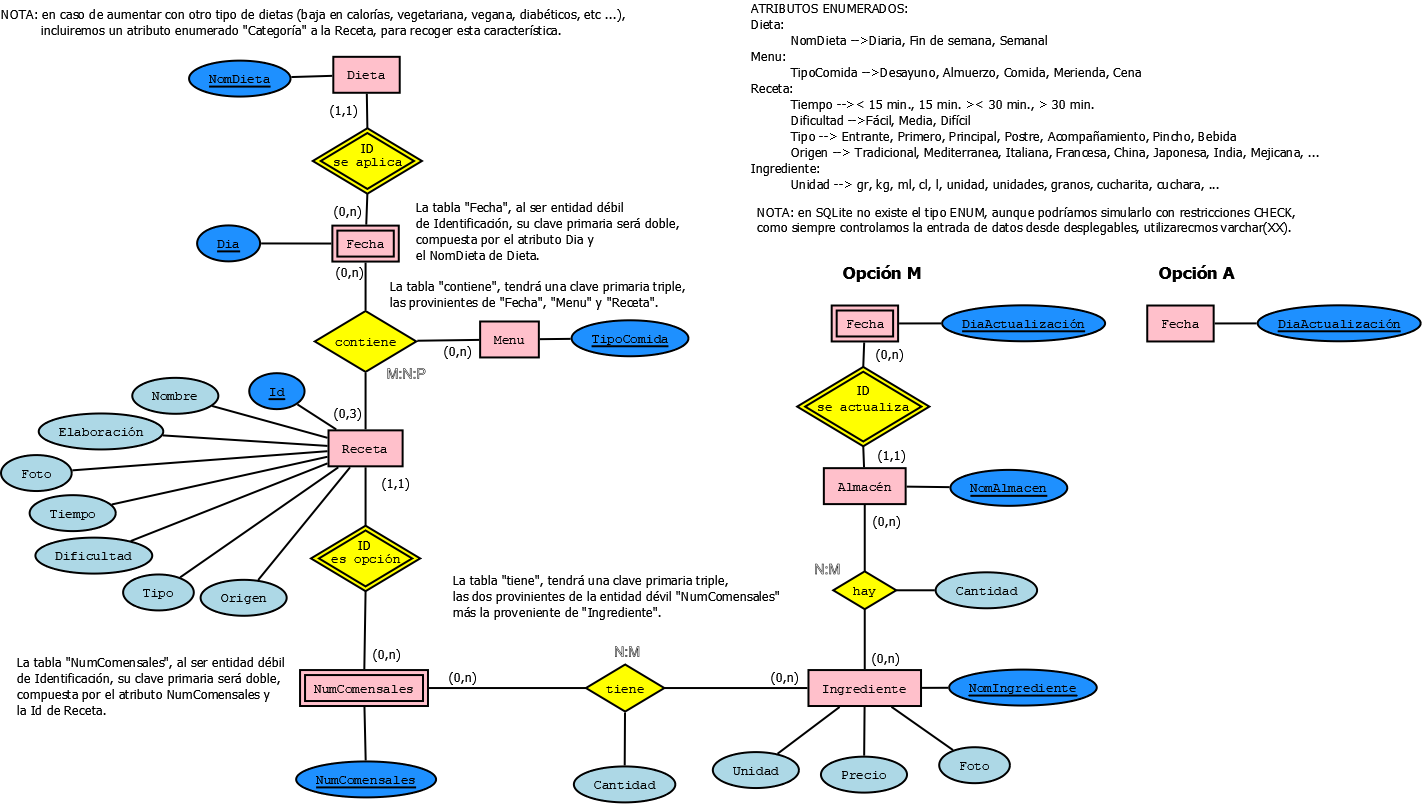
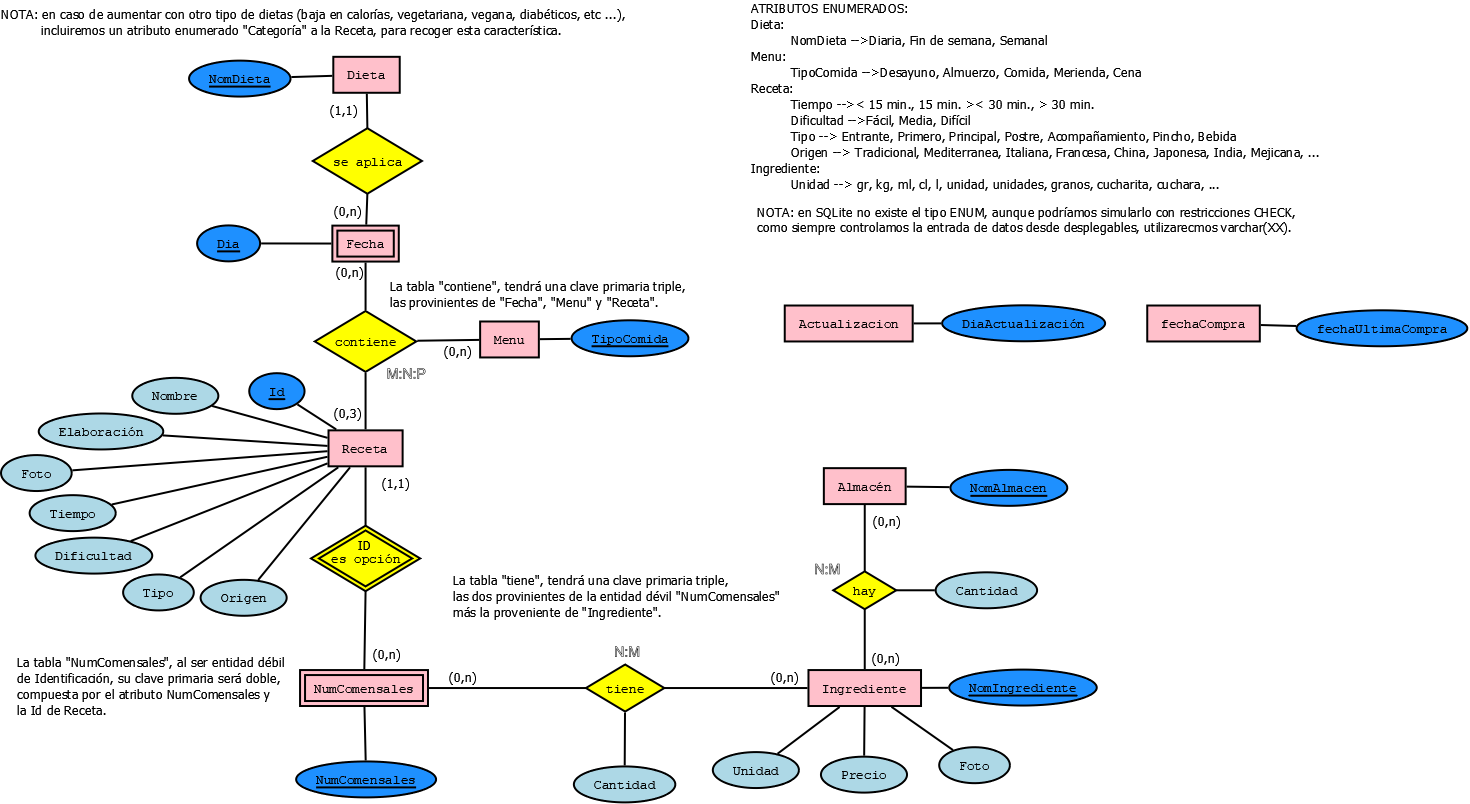
boton ListaCompra deshabilitado y nueva tabla fechaCompra

diff --git a/Aplicacion/app/src/main/java/com/elorrieta/diet_app/listaCompra.java b/Aplicacion/app/src/main/java/com/elorrieta/diet_app/listaCompra.java
@@ -22,6 +22,10 @@ public class listaCompra extends AppCompatActivity {
     ArrayList<Ingrediente> menuArrList_Compra;
     ArrayList<Ingrediente> menuActualizacion_Almacen;
     ArrayList<Ingrediente> menuInsercion_Almacen;
+    ArrayList<String> congelador = new ArrayList<String>();
+    ArrayList<String> despensa = new ArrayList<String>();
+    ArrayList<String> especiero = new ArrayList<String>();
+    ArrayList<String> nevera = new ArrayList<String>();
     String origen, fin, fechaOrigen, fechaFin;
     TextView txtFechaOrigen, txtFechaFin;
 
@@ -29,6 +33,8 @@ public class listaCompra extends AppCompatActivity {
     protected void onCreate(Bundle savedInstanceState) {
         super.onCreate(savedInstanceState);
         setContentView(R.layout.activity_lista_compra);
+
+        cargarListaAlmacenes();
 
         txtFechaOrigen = (TextView) findViewById(R.id.txtOrigen);
         txtFechaFin = (TextView) findViewById(R.id.txtFin);
@@ -38,8 +44,8 @@ public class listaCompra extends AppCompatActivity {
         fin = getIntent().getStringExtra("fechaFin");
 
         //Se llenan los textBoxes con los datos elegidos de la pantalla anterior
-        txtFechaOrigen.setText(origen);
-        txtFechaFin.setText(fin);
+        txtFechaOrigen.setText(fecha_DD_MM_AAAA(origen));
+        txtFechaFin.setText(fecha_DD_MM_AAAA(fin));
 
         //ReciclerViews
 
@@ -95,11 +101,27 @@ public class listaCompra extends AppCompatActivity {
         rvCompramos.setVisibility(View.VISIBLE);
     }
 
+    //Guardará la fecha final de la compra y
+    //acumula los ingredientes comprados en el almacén
+    public void realizarCompra(View poView) {
+        //Fecha
+        BBDD admin = new BBDD(this, "administracion",
+                null, 1);
+        SQLiteDatabase bd = admin.getWritableDatabase();
+        bd.execSQL("UPDATE fechaCompra SET fechaUltimaCompra = '" + fin + "' WHERE true");
+        bd.close();
+        admin.close();
+        
+        //Almacén
+        //-->Update
+        //-->Insert
+    }
+
     //Carga los ingredientes de todas las recetas comprendidas entre dos fechas
     public void cargarNecesitamos() {
 
-        fechaOrigen = fecha_AAAA_MM_DD(origen);
-        fechaFin = fecha_AAAA_MM_DD(fin);
+        fechaOrigen = origen;
+        fechaFin = fin;
 
         boolean bucle = false;
         BBDD admin = new BBDD(this, "administracion",
@@ -197,6 +219,7 @@ public class listaCompra extends AppCompatActivity {
         }
     }
 
+    //Formato "AAAA / MM / DD" para las fechas
     public String fecha_AAAA_MM_DD(String fechaDD_MM_AAAA) {
         String fecha_AAAA_MM_DD = "";
 
@@ -222,10 +245,11 @@ public class listaCompra extends AppCompatActivity {
         return fecha_AAAA_MM_DD;
     }
 
-    public String fecha_DD_MM_AAAA(String fechaAAAA_MM_DD) {
+    //Formato "DD / MM / AAAA" para las fechas
+    public String fecha_DD_MM_AAAA(String fechaDD_MM_AAA) {
         String fecha_DD_MM_AAAA = "";
 
-        String[] fechaArray = fechaAAAA_MM_DD.split(" / ");
+        String[] fechaArray = fechaDD_MM_AAA.split(" / ");
         int diaDelMes, mesDelAnio, anio;
         diaDelMes = Integer.parseInt(fechaArray[2].trim());
         String dia;
@@ -247,4 +271,128 @@ public class listaCompra extends AppCompatActivity {
         return fecha_DD_MM_AAAA;
     }
 
+    //Carga la lista total de ingredientes con su almacén por defecto,
+    //para saber dónde se inscribirán por defecto si no existen
+    public void cargarListaAlmacenes() {
+        //Congelador
+        congelador.add("Habas cocidas");
+
+        //Despensa
+        despensa.add("Aceite Oliva virgen");
+        despensa.add("Aceite de girasol");
+        despensa.add("Aceite de sésamo");
+        despensa.add("Aceitunas sin hueso");
+        despensa.add("Agua");
+        despensa.add("Aguacate");
+        despensa.add("Alcachofas");
+        despensa.add("Almendras crudas");
+        despensa.add("Almendras tostadas");
+        despensa.add("Arroz");
+        despensa.add("Azucar blanco");
+        despensa.add("Azúcar glas");
+        despensa.add("Azúcar moreno");
+        despensa.add("Barra Pan blanco");
+        despensa.add("Boniato");
+        despensa.add("Bonito en aceite");
+        despensa.add("Brandy");
+        despensa.add("Cebolla");
+        despensa.add("Cebolleta");
+        despensa.add("Dientes de ajo");
+        despensa.add("Fresas");
+        despensa.add("Harina");
+        despensa.add("Jamón serrano");
+        despensa.add("Kiwis");
+        despensa.add("Leche condensada");
+        despensa.add("Levadura");
+        despensa.add("Licor de cereza");
+        despensa.add("Lima");
+        despensa.add("Limon");
+        despensa.add("Maicena");
+        despensa.add("Mango");
+        despensa.add("Melón");
+        despensa.add("Nabo");
+        despensa.add("Pan duro");
+        despensa.add("Papaya");
+        despensa.add("Parmesano");
+        despensa.add("Patatas");
+        despensa.add("Peras");
+        despensa.add("Piel Limon");
+        despensa.add("Piel naranja");
+        despensa.add("Pimientos del Piquillo");
+        despensa.add("Plátano");
+        despensa.add("Queso curado");
+        despensa.add("Queso de oveja");
+        despensa.add("Queso poco curado");
+        despensa.add("Quinua");
+        despensa.add("Ras al hanut");
+        despensa.add("Rebanada de pan de molde");
+        despensa.add("Sal");
+        despensa.add("Salsa de soja");
+        despensa.add("Sirope de arce");
+        despensa.add("Sésamo");
+        despensa.add("Tomates secos");
+        despensa.add("Vinagre");
+        despensa.add("Vinagre Suave");
+        despensa.add("Vino Blanco");
+
+        //Especiero
+        especiero.add("Anís estrellado");
+        especiero.add("Azafrán en hebras");
+        especiero.add("Canela");
+        especiero.add("Canela molida");
+        especiero.add("Cayena");
+        especiero.add("Clavos de olor");
+        especiero.add("Coco deshidratado");
+        especiero.add("Comino");
+        especiero.add("Cúrcuma");
+        especiero.add("Granos de cardamomo verde");
+        especiero.add("Guindilla picada");
+        especiero.add("Guindilla roja");
+        especiero.add("Hojas de hierbabuena");
+        especiero.add("Hojas de laurel");
+        especiero.add("Hojas de perejil");
+        especiero.add("Hojas de romero picadas");
+        especiero.add("Hojas de tomillo");
+        especiero.add("Jengibre");
+        especiero.add("Nuez moscada");
+        especiero.add("Orégano");
+        especiero.add("Perejil picado");
+        especiero.add("Pimentón picante");
+        especiero.add("Pimienta");
+        especiero.add("Romero");
+        especiero.add("Semillas de cilantro");
+        especiero.add("Tabasco");
+        especiero.add("Tomillo");
+        especiero.add("Vaina de vainilla");
+        especiero.add("Vainas de cardamomo");
+
+        //Nevera
+        nevera.add("Anchoas");
+        nevera.add("Boquerones");
+        nevera.add("Brécol");
+        nevera.add("Calabacines");
+        nevera.add("Calabaza");
+        nevera.add("Carne de cordero");
+        nevera.add("Cebollino picado");
+        nevera.add("Champiñones");
+        nevera.add("Coliflor");
+        nevera.add("Costilla de cerdo");
+        nevera.add("Espinacas");
+        nevera.add("Huevos");
+        nevera.add("Leche entera");
+        nevera.add("Mantequilla");
+        nevera.add("Manzana asada");
+        nevera.add("Membrillos");
+        nevera.add("Mermelada de frutos rojos");
+        nevera.add("Nata líquida");
+        nevera.add("Nata para montar");
+        nevera.add("Perejil");
+        nevera.add("Queso suizo");
+        nevera.add("Remolachas");
+        nevera.add("Sardinas");
+        nevera.add("Setas");
+        nevera.add("Yemas");
+        nevera.add("Yogur natural");
+        nevera.add("Zumo de naranja");
+    }
 }

diff --git a/Aplicacion/app/src/main/java/com/elorrieta/diet_app/FiltroListaCompraAlmacen.java b/Aplicacion/app/src/main/java/com/elorrieta/diet_app/FiltroListaCompraAlmacen.java
@@ -2,27 +2,37 @@ package com.elorrieta.diet_app;
 
 import android.app.DatePickerDialog;
 import android.content.Intent;
+import android.database.Cursor;
+import android.database.sqlite.SQLiteDatabase;
 import android.os.Bundle;
 import android.view.View;
+import android.widget.Button;
 import android.widget.DatePicker;
 import android.widget.TextView;
+import android.widget.Toast;
 
 import androidx.appcompat.app.AppCompatActivity;
 
 import com.elorrieta.diet_app.ui.main.dialog.DatePickerFragment;
 
+import org.jetbrains.annotations.NotNull;
+
 import java.util.Calendar;
 
-public class FiltroListaCompraAlmacen extends AppCompatActivity implements View.OnClickListener{
-    String fechaOrigen, fechaFin;
+public class FiltroListaCompraAlmacen extends AppCompatActivity implements View.OnClickListener {
+    String fechaOrigen, fechaFin, fechaCompra;
     int anio, mes;
     String dia;
     TextView txtFechaOrigen, txtFechaFin;
+    Button btnLista;
 
     @Override
     protected void onCreate(Bundle savedInstanceState) {
         super.onCreate(savedInstanceState);
         setContentView(R.layout.activity_filtro_lista_compra_almacen);
+
+        btnLista = (Button) findViewById(R.id.btnLista);
+        btnLista.setEnabled(false);
 
         txtFechaOrigen = (TextView) findViewById(R.id.txtFechaOrigen);
         txtFechaFin = (TextView) findViewById(R.id.txtFechaFin);
@@ -32,7 +42,7 @@ public class FiltroListaCompraAlmacen extends AppCompatActivity implements View.
         String selectedDate = "";
         Calendar now = Calendar.getInstance();
         String dia;
-        if (now.get(now.DAY_OF_MONTH)<10){
+        if (now.get(now.DAY_OF_MONTH) < 10) {
             dia = "0" + now.get(now.DAY_OF_MONTH);
         } else {
             dia = String.valueOf(now.get(now.DAY_OF_MONTH));
@@ -60,7 +70,7 @@ public class FiltroListaCompraAlmacen extends AppCompatActivity implements View.
                 anio = year;
                 mes = month;
                 // para días del 1 al 9, le añado un 0 delante (para la gestión de fechas)
-                if (day<10){
+                if (day < 10) {
                     dia = "0" + String.valueOf(day);
                 } else {
                     dia = String.valueOf(day);
@@ -69,6 +79,7 @@ public class FiltroListaCompraAlmacen extends AppCompatActivity implements View.
                 final String selectedDate = dia + " / " + (month + 1) + " / " + year;
                 txtFechaFin.setText(fecha_DD_MM_AAAA(fecha_AAAA_MM_DD(selectedDate)));
                 fechaFin = txtFechaFin.getText().toString();
+                btnLista.setEnabled(true);
             }
         });
 
@@ -81,27 +92,54 @@ public class FiltroListaCompraAlmacen extends AppCompatActivity implements View.
     }
 
     public void listaCompra(View poView) {
-        Intent oIntent = new Intent(this, listaCompra.class);
-        oIntent.putExtra("fechaOrigen", fechaOrigen);
-        oIntent.putExtra("fechaFin", fechaFin);
-        startActivity(oIntent);
+        //Hacemos comprobación de que existen dietas en esa franja de fechas
+        //Pasamos la fecha de la última dieta
+        fechaOrigen = fecha_AAAA_MM_DD(fechaOrigen);
+        fechaFin = fecha_AAAA_MM_DD(fechaFin);
+        boolean bucle = false;
+        BBDD admin = new BBDD(this, "administracion",
+                null, 1);
+        SQLiteDatabase bd = admin.getWritableDatabase();
+        Cursor fila = bd.rawQuery("select dia from fecha where dia > '" + fechaOrigen + "' and dia <= '" + fechaFin + "' order by 1 asc", null);
+        do {
+            if (fila.moveToNext()) {
+                if (fila != null) {
+                    fechaCompra = fila.getString(0);
+                }
+            } else {
+                bucle = true;
+            }
+        } while (bucle == false);
+        bd.close();
+        admin.close();
+        if (fechaCompra == null) {
+            Toast.makeText(this, "No existen dietas en la franja desde el " + fecha_DD_MM_AAAA(fechaOrigen) + " hasta el " + fecha_DD_MM_AAAA(fechaFin), Toast.LENGTH_LONG).show();
+            fechaOrigen = txtFechaOrigen.getText().toString();
+            txtFechaFin.setText("");
+        } else {
+            Intent oIntent = new Intent(this, listaCompra.class);
+            oIntent.putExtra("fechaOrigen", fechaOrigen);
+            oIntent.putExtra("fechaFin", fechaCompra);
+            startActivity(oIntent);
+            finish();
+        }
     }
 
-    public String fecha_AAAA_MM_DD(String fechaDD_MM_AAA) {
+    public String fecha_AAAA_MM_DD(@NotNull String fechaDD_MM_AAA) {
         String fecha_AAAA_MM_DD = "";
 
         String[] fechaArray = fechaDD_MM_AAA.split(" / ");
         int diaDelMes, mesDelAnio, anio;
         diaDelMes = Integer.parseInt(fechaArray[0].trim());
         String dia;
-        if (diaDelMes<10){
+        if (diaDelMes < 10) {
             dia = "0" + diaDelMes;
         } else {
             dia = String.valueOf(diaDelMes);
         }
         mesDelAnio = Integer.parseInt(fechaArray[1].trim());
         String mes;
-        if (mesDelAnio<10){
+        if (mesDelAnio < 10) {
             mes = "0" + mesDelAnio;
         } else {
             mes = String.valueOf(mesDelAnio);
@@ -119,14 +157,14 @@ public class FiltroListaCompraAlmacen extends AppCompatActivity implements View.
         int diaDelMes, mesDelAnio, anio;
         diaDelMes = Integer.parseInt(fechaArray[2].trim());
         String dia;
-        if (diaDelMes<10){
+        if (diaDelMes < 10) {
             dia = "0" + diaDelMes;
         } else {
             dia = String.valueOf(diaDelMes);
         }
         mesDelAnio = Integer.parseInt(fechaArray[1].trim());
         String mes;
-        if (mesDelAnio<10){
+        if (mesDelAnio < 10) {
             mes = "0" + mesDelAnio;
         } else {
             mes = String.valueOf(mesDelAnio);

diff --git a/Aplicacion/app/src/main/java/com/elorrieta/diet_app/BBDD.java b/Aplicacion/app/src/main/java/com/elorrieta/diet_app/BBDD.java
@@ -23,6 +23,7 @@ public class BBDD extends SQLiteOpenHelper {
         db.execSQL("create table ingrediente(nomIngrediente varchar(10) primary key, unidad varchar(10), foto varchar(50), precio float)");
         db.execSQL("create table hay(nomAlmacen varchar(20), nomIngrediente varchar(10), cantidad float, unidad varchar(10), foreign key(nomIngrediente) references ingrediente(nomIngrediente), foreign key(nomAlmacen) references almacen(nomAlmacen), primary key(nomAlmacen, nomIngrediente))");
         db.execSQL("create table almacen(nomAlmacen varchar(20) primary key)");
+        db.execSQL("create table fechaCompra(fechaUltimaCompra TEXT)");
     }
 
     @Override
@@ -42,6 +43,7 @@ public class BBDD extends SQLiteOpenHelper {
         dieta(bd);
         menu(bd);
 
+        fechaCompra(bd);
         //fecha(bd);
         //contiene(bd);
     }
@@ -475,6 +477,10 @@ public class BBDD extends SQLiteOpenHelper {
         bd.execSQL("INSERT INTO menu(tipoComida) VALUES ('Comida')");
         bd.execSQL("INSERT INTO menu(tipoComida) VALUES ('Merienda')");
         bd.execSQL("INSERT INTO menu(tipoComida) VALUES ('Cena')");
+    }
+
+    public void fechaCompra(SQLiteDatabase bd){
+        bd.execSQL("INSERT INTO fechaCompra(fechaUltimaCompra) VALUES ('2001 / 01 / 01')");
     }
 
 //    public void fecha(SQLiteDatabase bd){

diff --git a/Aplicacion/app/src/main/java/com/elorrieta/diet_app/DietaDiaria.java b/Aplicacion/app/src/main/java/com/elorrieta/diet_app/DietaDiaria.java
@@ -223,7 +223,7 @@ public class DietaDiaria extends AppCompatActivity implements View.OnClickListen
             if (a.moveToFirst()) {
                 a.moveToFirst();
                 do {
-                    if(a.getString(0).contentEquals(fecha)){
+                    if(a.getString(0).contentEquals(fecha_AAAA_MM_DD(fecha))){
                         if(a.getString(1).contentEquals("Desayuno")){
                             des += cargarReceta(a.getInt(2))+"\n----- 0 -----\n";
                         } else if(a.getString(1).contentEquals("Almuerzo")){
